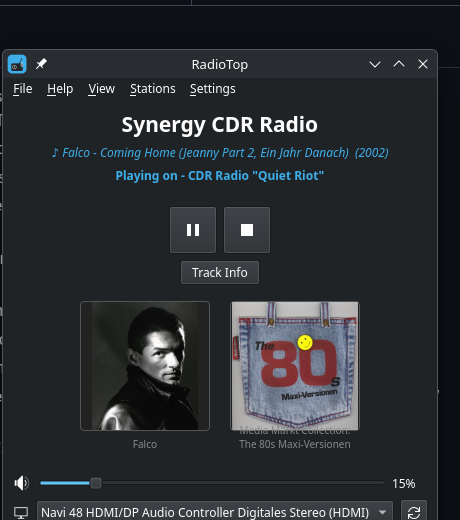
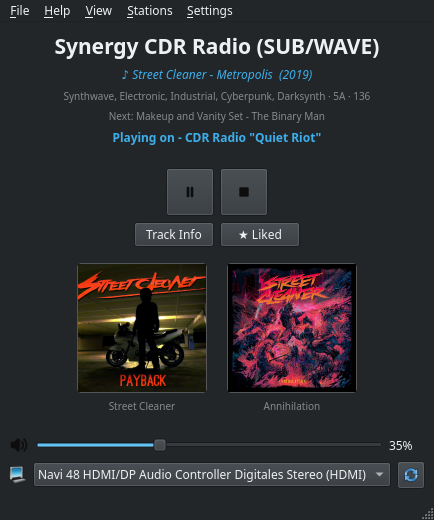
Update CHANGELOG and the now-playing screenshot for SUB/WAVE integration
playing.png now shows the SUB/WAVE-detected station name suffix, the
genre/key/BPM detail line, the next-track label, and the Like button.

diff --git a/CHANGELOG.md b/CHANGELOG.md
@@ -2,6 +2,12 @@
 
 All notable changes to RadioTop are documented in this file.
 
+## [Unreleased]
+
+- Added SUB/WAVE station integration: richer now-playing metadata (genre/key/BPM) and a
+  "Next" track label pulled from a SUB/WAVE station's own API, plus a Like button that
+  nudges the station's DJ toward similar tracks.
+
 ## [0.29] - 2026-07-24
 
 - Play now resumes the last-played station by default when nothing is selected yet in the
